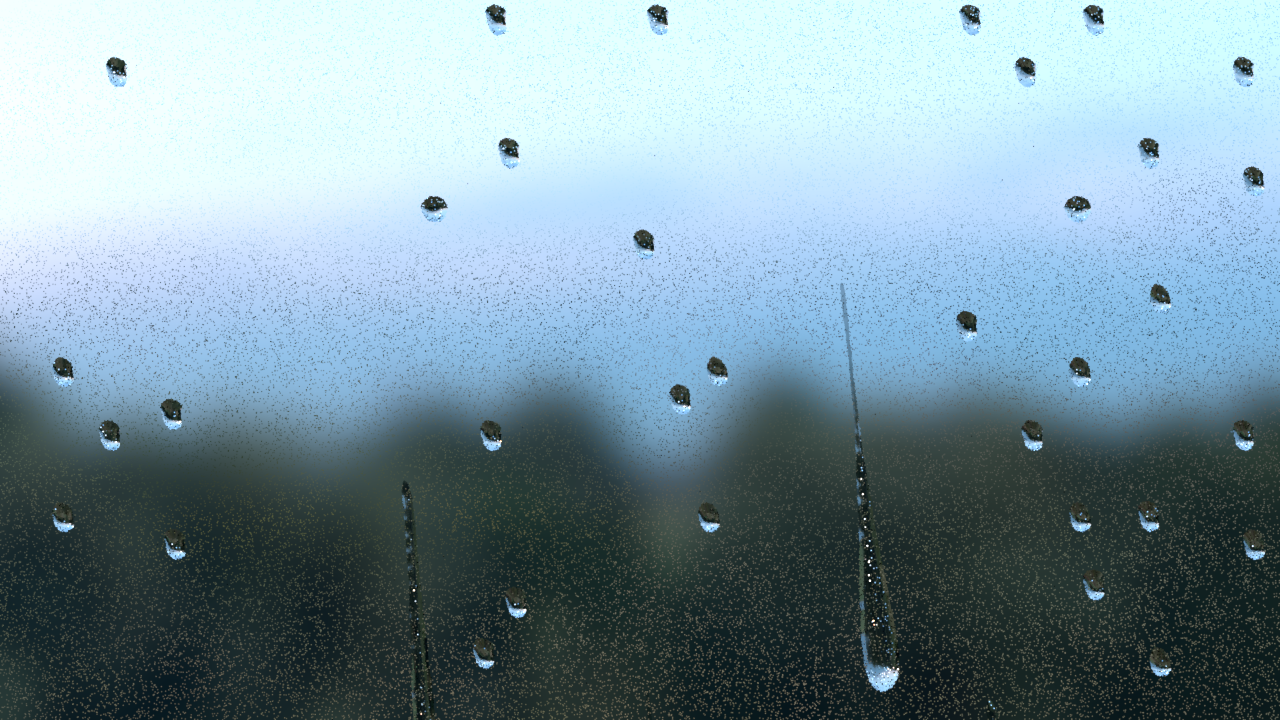
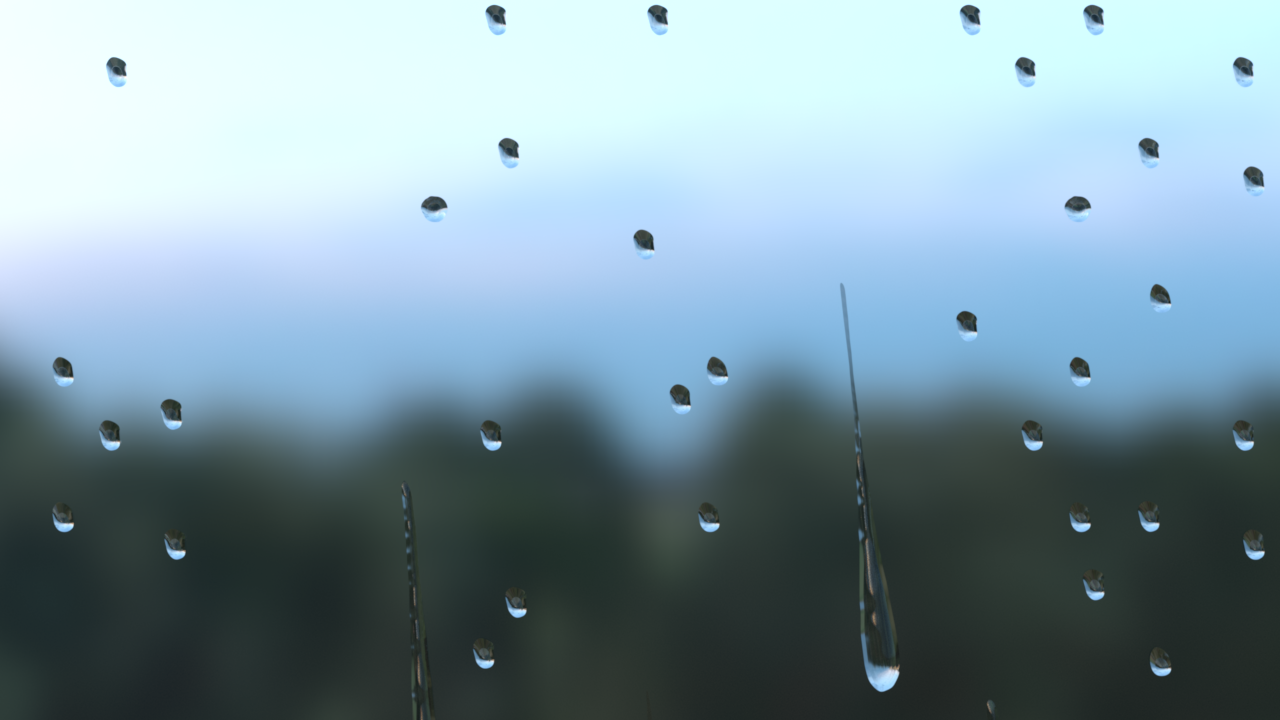
Beta0.6
Now render frame 0 ~750 at 512 sampling

diff --git a/generator.py b/generator.py
@@ -21,8 +21,8 @@ def clearFolderContents(pathToFolder, recursive=False):
 def single_water_drops_window(total_f):
     # Clear Folder
     #clearFolderContents("window/Result02/")
-    #for i in range(250, 251):
-    for i in [0,50,100,150,200,250,300,350,400,450,500,550,600,650,700,749]:
+    for i in range(0, 751):
+    #for i in [0,50,100,150,200,250,300,350,400,450,500,550,600,650,700,749]:
         file = open("window/mitsuba.xml", "w+")
         w.print_head_Info(file)
         w.print_scene_head(file)

diff --git a/window.py b/window.py
@@ -30,7 +30,7 @@ def perspective(file):
     file.write("			<lookat target=\"0, 0, 0\" origin=\"0, 0, 50\" up=\"0, 1, 0\"/>\n")
     file.write("		</transform>\n")
     file.write("		<sampler type=\"ldsampler\">\n")
-    file.write("			<integer name=\"sampleCount\" value=\"1\"/>\n")
+    file.write("			<integer name=\"sampleCount\" value=\"512\"/>\n")
     file.write("		</sampler>\n")
     file.write("		<film type=\"ldrfilm\">\n")
     file.write("			<integer name=\"height\" value=\"720\"/>\n")
